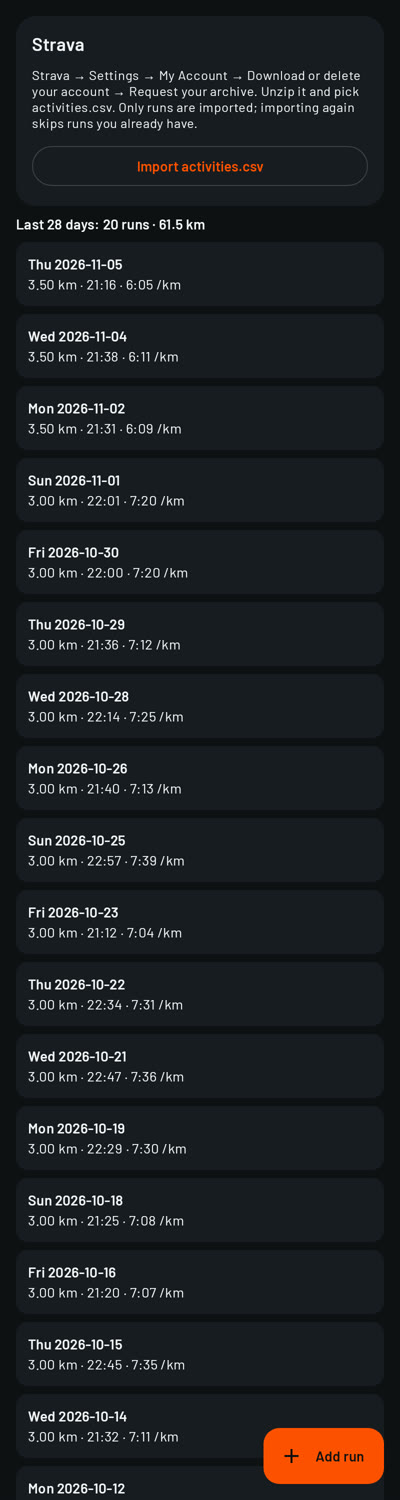
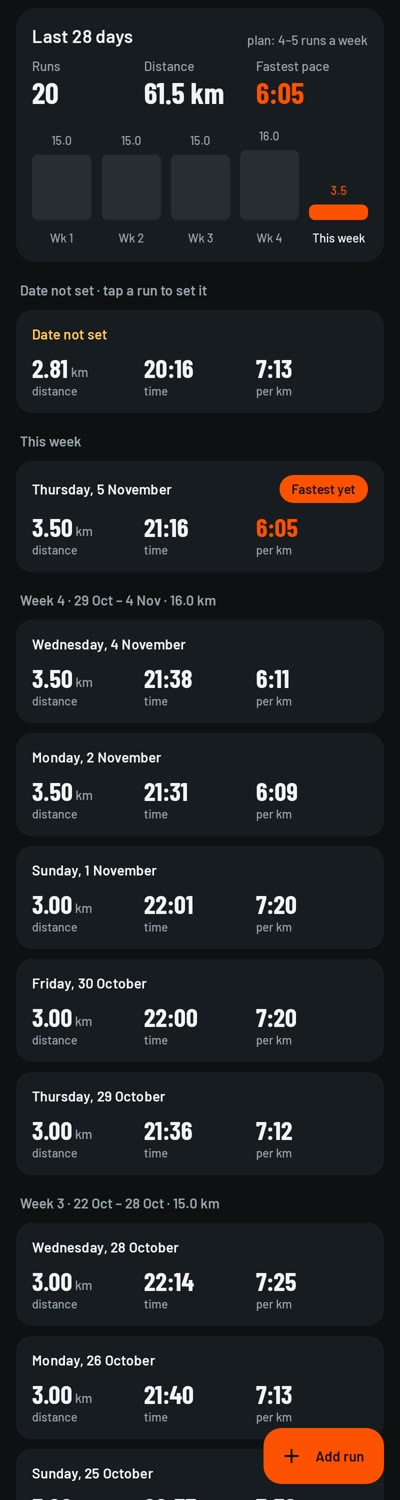
README: add Body screenshot, refresh Runs
Claude-Session: https://claude.ai/code/session_01NhF2XaJMtCFQsU6AoPcjWX

diff --git a/README.md b/README.md
@@ -3,9 +3,9 @@
 A personal Android app for weight loss. It compares the **planned** trajectory with a **realistic**, data-driven forecast
 that updates every time you log a weight. Everything stays on the phone: no accounts, no cloud.
 
-| Dashboard | Today | Runs | Plan |
-|---|---|---|---|
-| ![Dashboard](docs/screenshots/1-dashboard.jpg) | ![Today](docs/screenshots/2-today.jpg) | ![Runs](docs/screenshots/3-runs.jpg) | ![Plan](docs/screenshots/4-plan.jpg) |
+| Dashboard | Today | Runs | Body | Plan |
+|---|---|---|---|---|
+| ![Dashboard](docs/screenshots/1-dashboard.jpg) | ![Today](docs/screenshots/2-today.jpg) | ![Runs](docs/screenshots/3-runs.jpg) | ![Body](docs/screenshots/5-body.jpg) | ![Plan](docs/screenshots/4-plan.jpg) |
 
 Screenshots are rendered from sample data by the Robolectric screenshot tests; CI uploads fresh ones as the `screenshots` artifact on every run.
 
